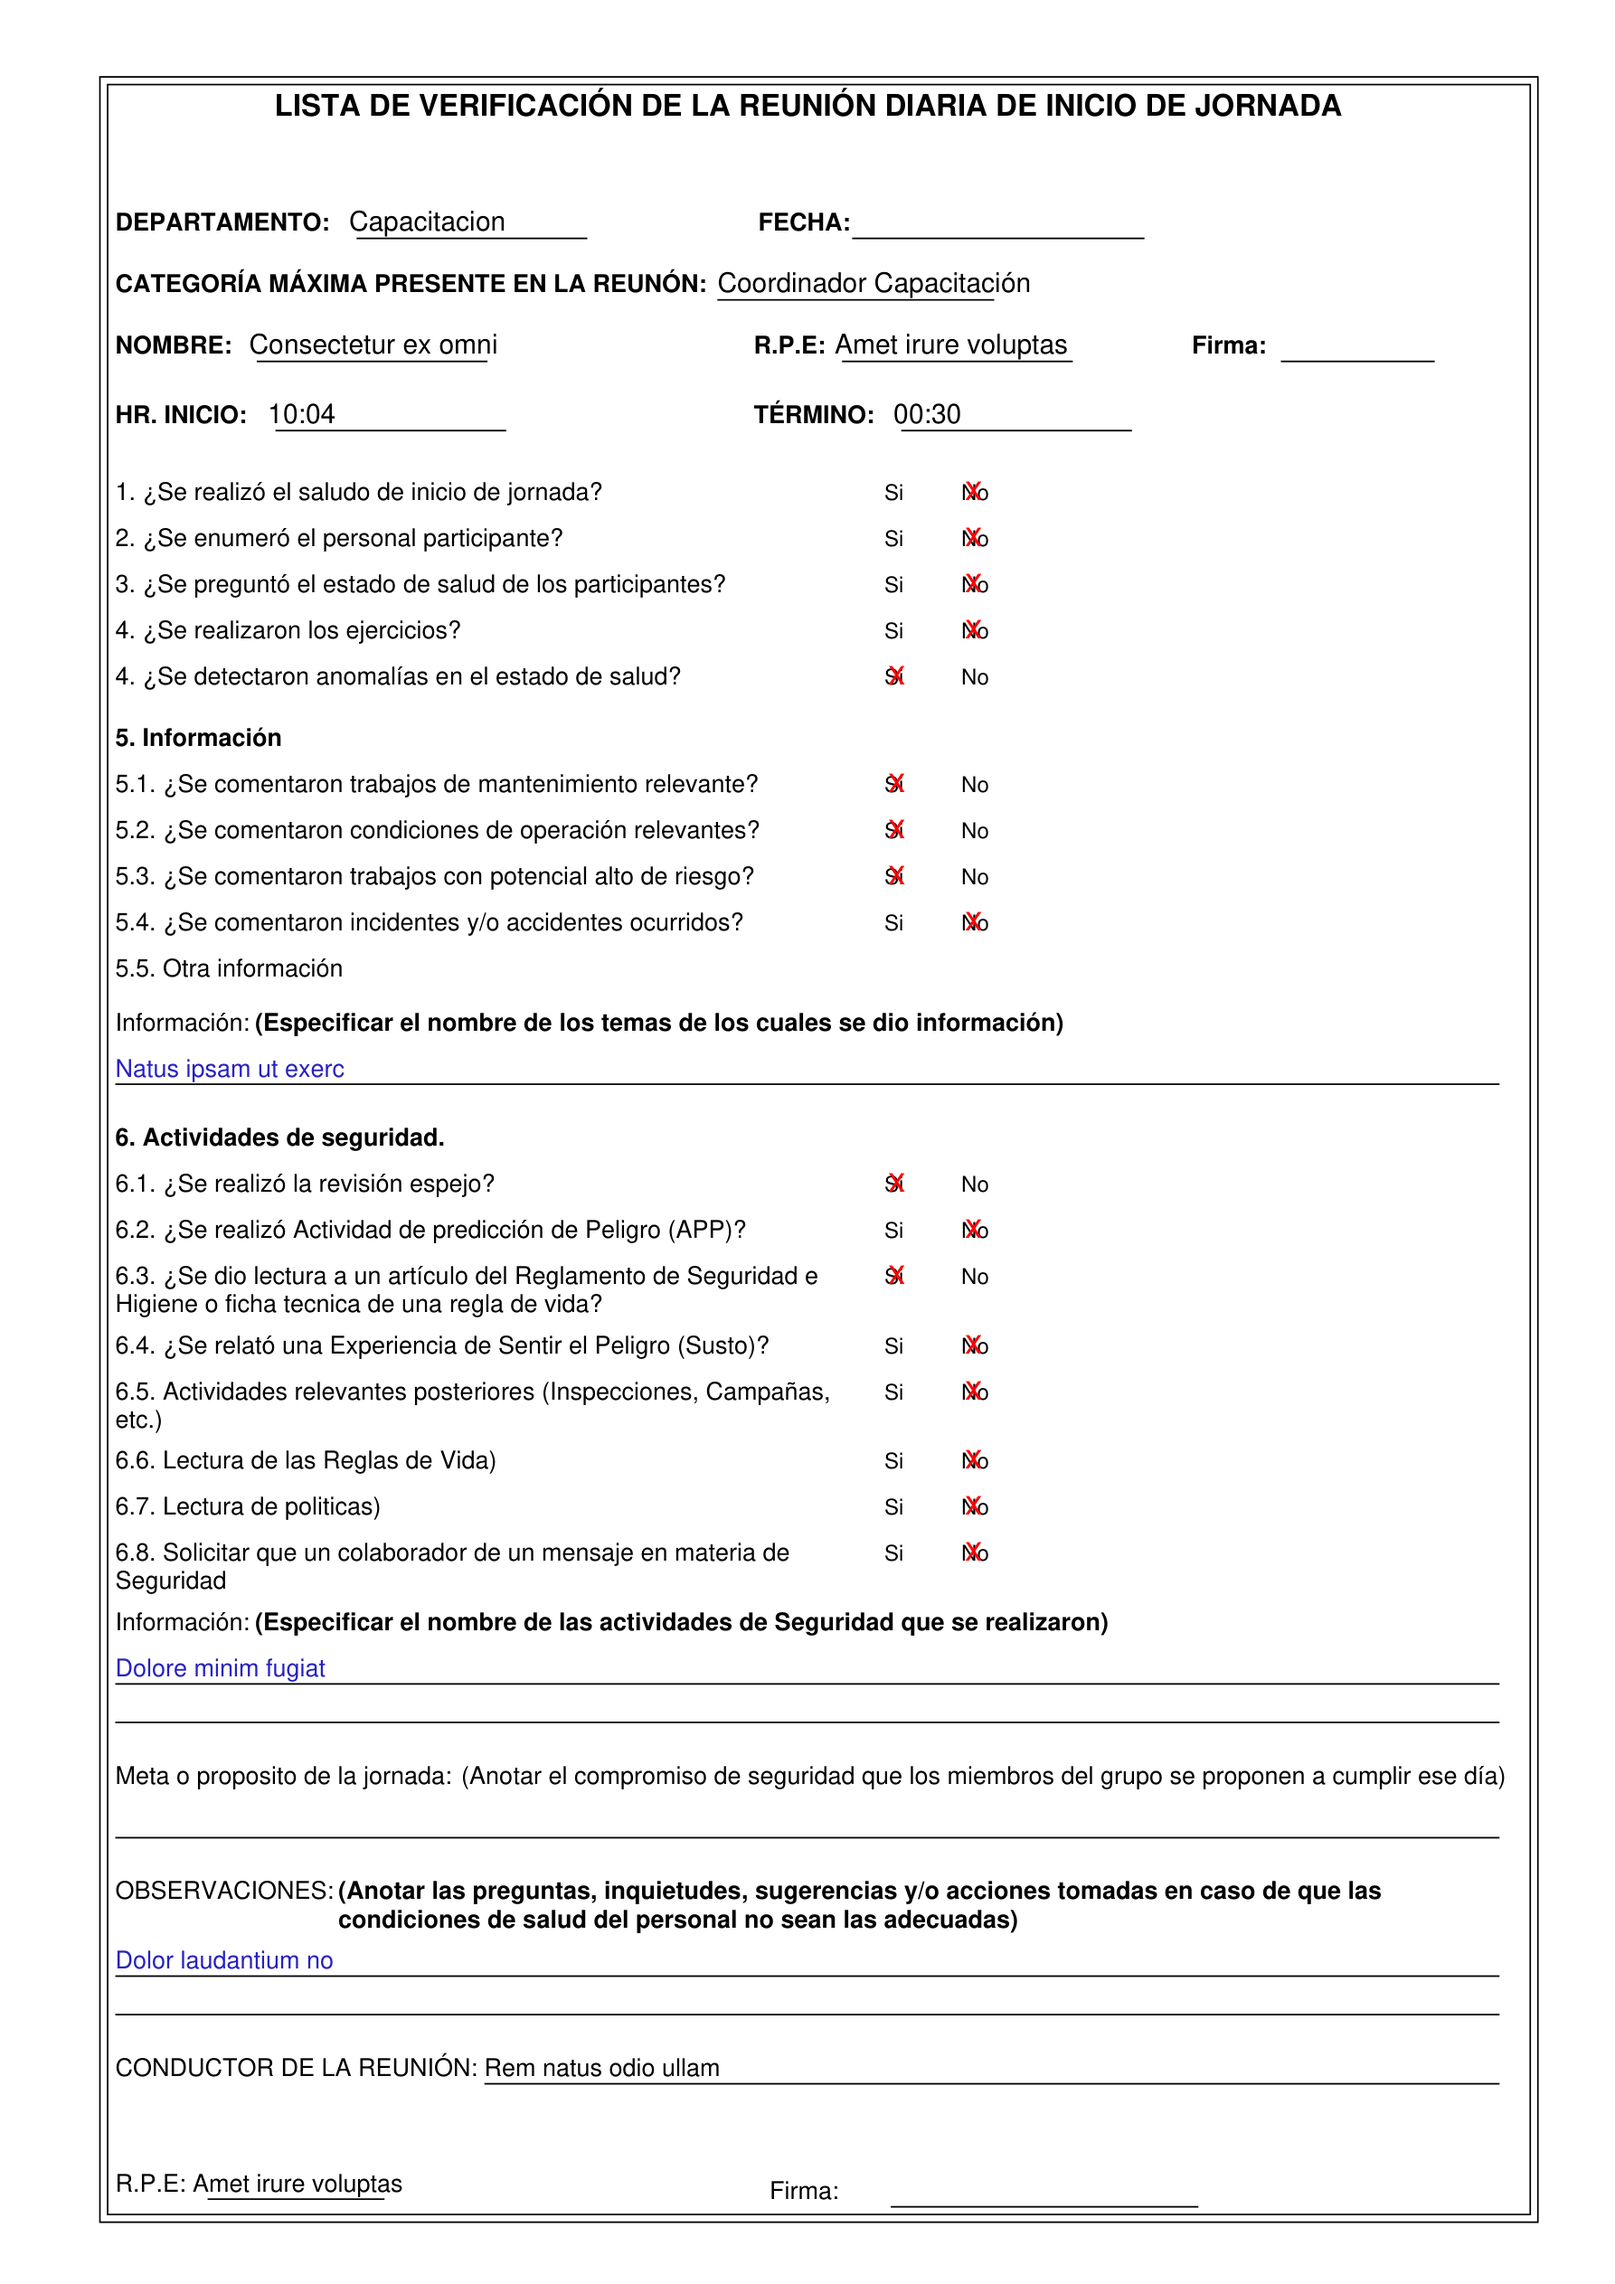
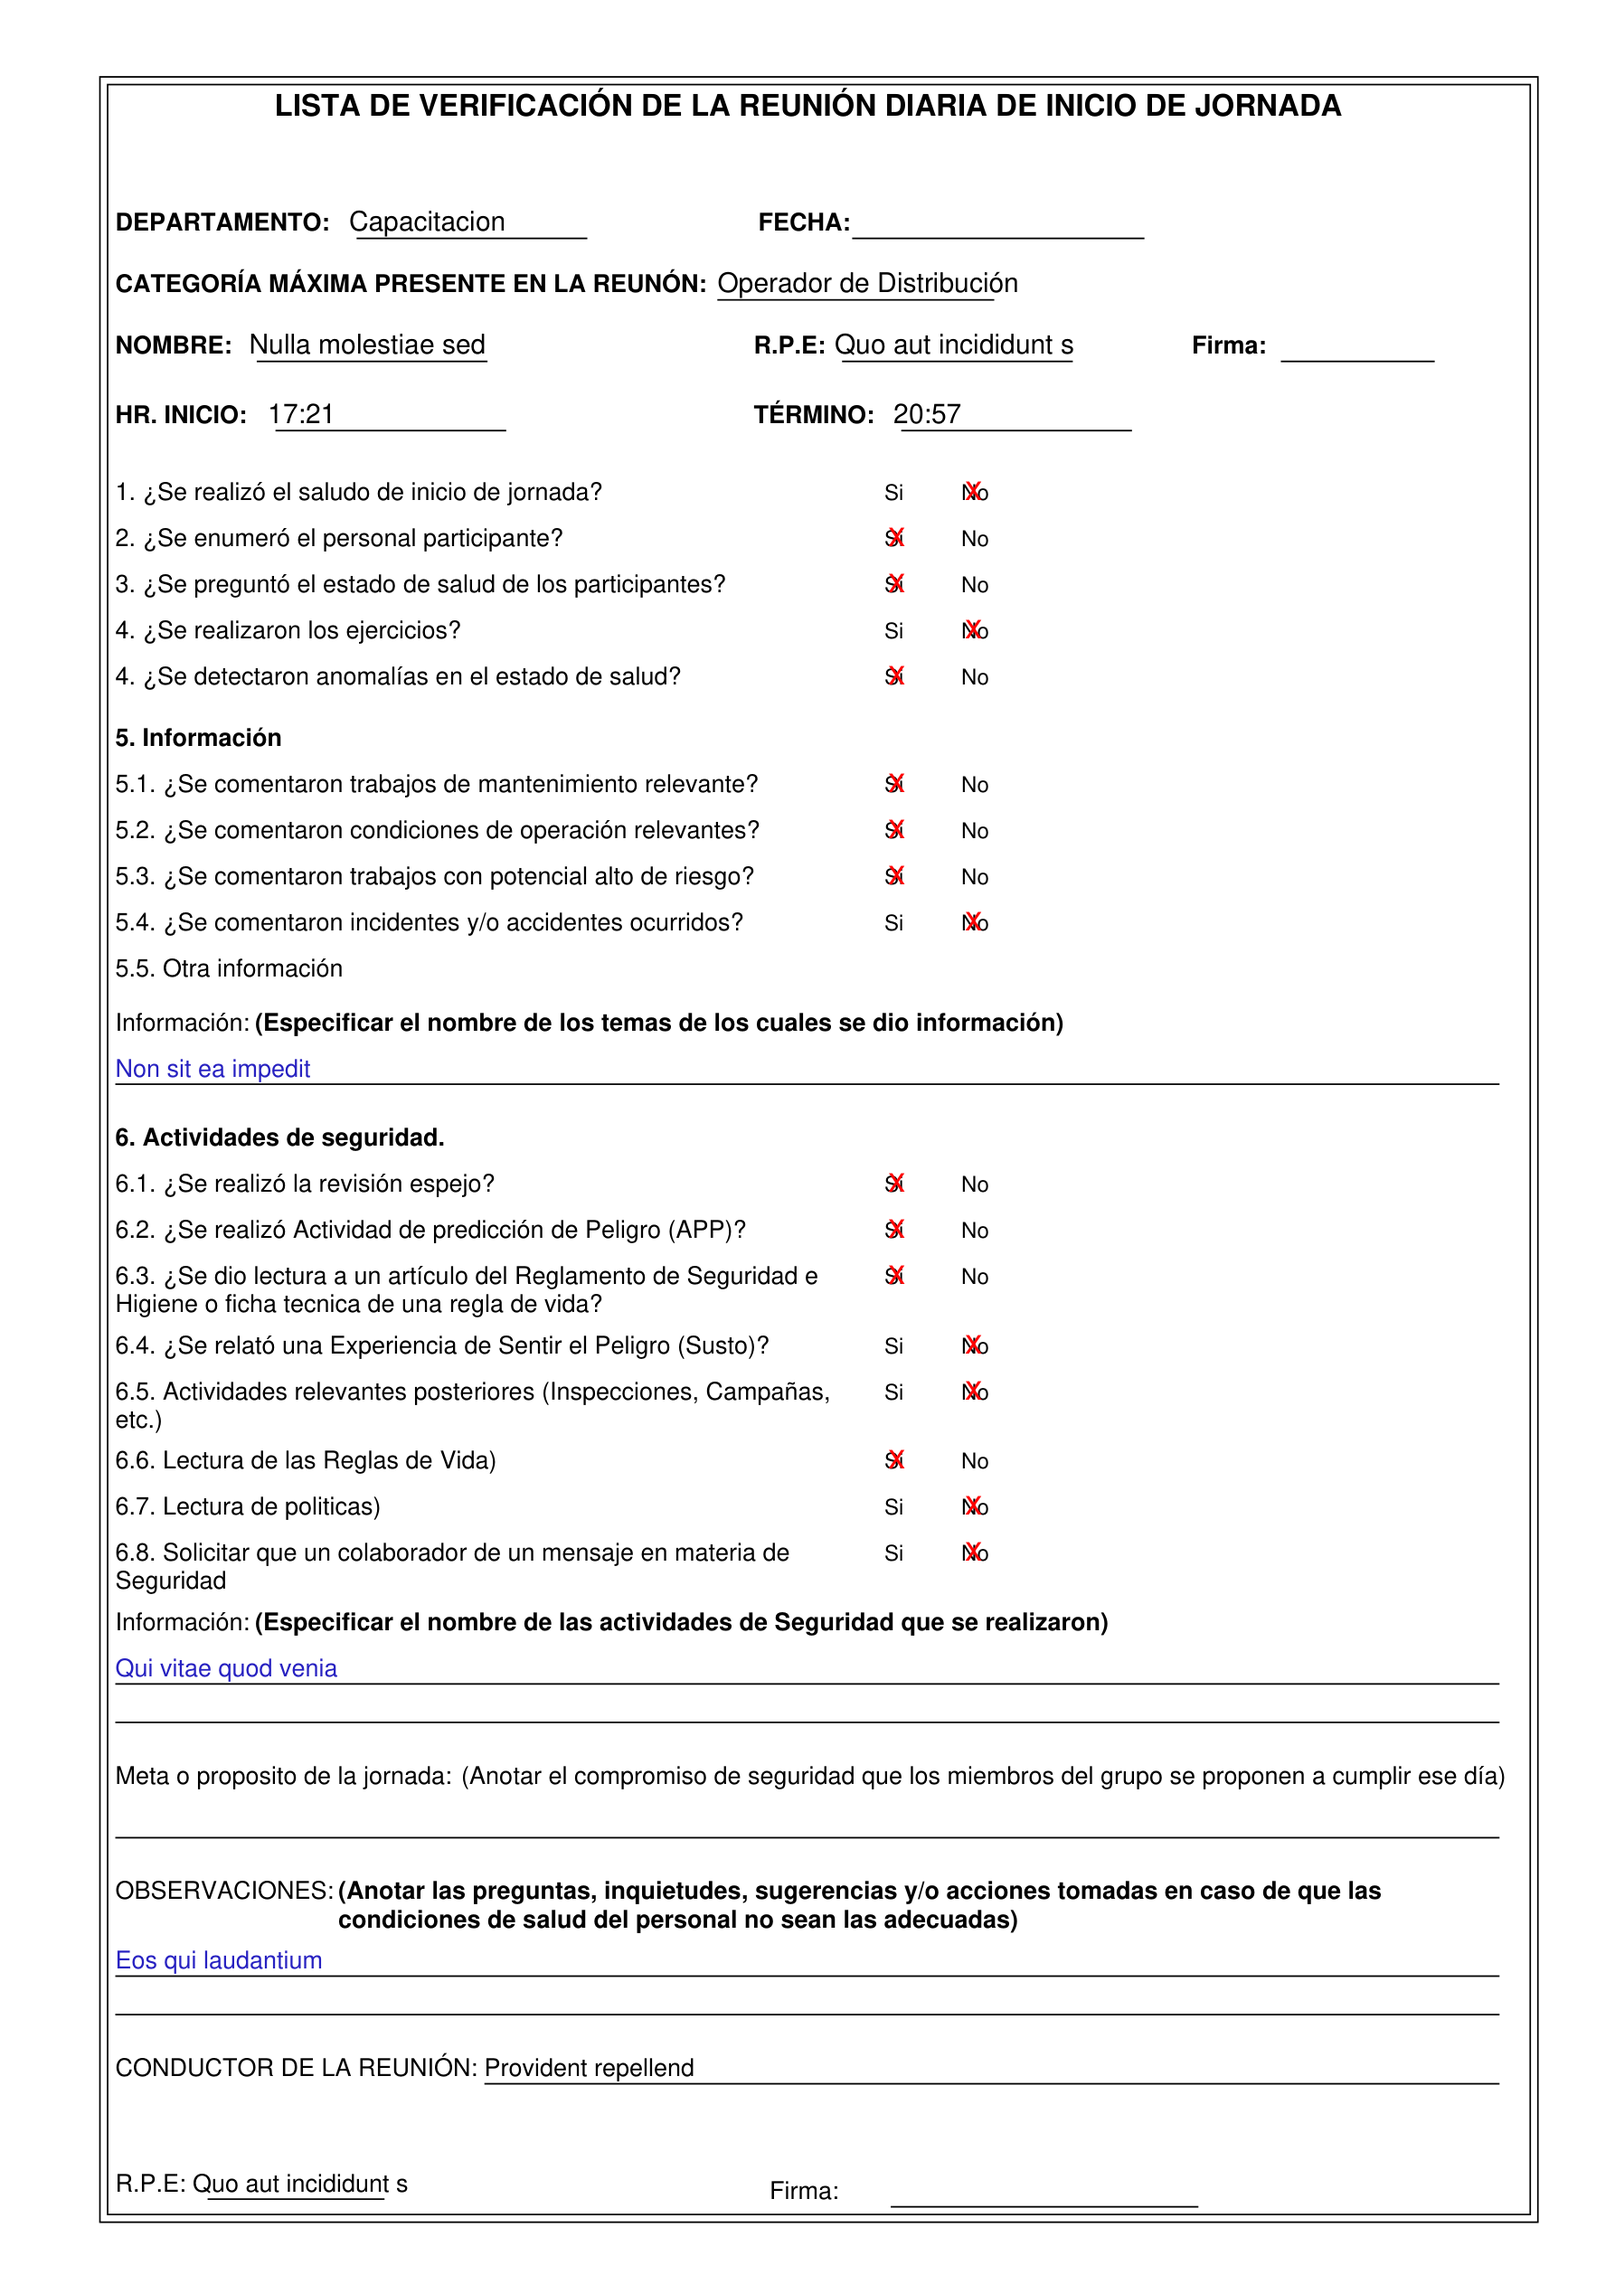
pdf a jpg medio funcional 3

diff --git a/RESOURCE/JS/insertar_rij_en_camara.js b/RESOURCE/JS/insertar_rij_en_camara.js
@@ -1,4 +1,4 @@
-// Este script inserta la imagen del formulario RIJ al principio de camara.html
+// Este script maneja la imagen RIJ mostrándola en el contenedor existente
 
 (function() {
     function obtenerIdentificadorUsuario() {
@@ -18,49 +18,36 @@
             try {
                 const response = await fetch(ruta, { method: 'HEAD' });
                 if (response.ok) {
-                    mostrarImagenRIJ(ruta, identificador);
+                    mostrarImagenEnContenedorExistente(ruta, identificador);
                     return;
                 }
             } catch (e) {}
         }
     }
 
-    function mostrarImagenRIJ(url, identificador) {
-        // Buscar o crear contenedor
-        let contenedor = document.getElementById('rij-container');
-        if (!contenedor) {
-            contenedor = document.createElement('div');
-            contenedor.id = 'rij-container';
-            contenedor.style.cssText = `
-                width: 100%;
-                margin-bottom: 20px;
-                padding: 15px;
-                border: 2px solid #007bff;
-                border-radius: 8px;
-                background: #f8f9fa;
-                text-align: center;
+    function mostrarImagenEnContenedorExistente(url, identificador) {
+        // Usar el contenedor existente en camara.html
+        const contenedorRij = document.getElementById('contenedor-rij');
+        const imagenContainer = document.getElementById('imagen-rij-container');
+        
+        if (contenedorRij && imagenContainer) {
+            // Mostrar el contenedor
+            contenedorRij.style.display = 'block';
+            
+            // Insertar solo la imagen en el contenedor existente
+            imagenContainer.innerHTML = `
+                <img src="${url}" alt="Formulario RIJ" style="
+                    max-width: 100%;
+                    max-height: 400px;
+                    border: 1px solid #ddd;
+                    border-radius: 4px;
+                    box-shadow: 0 2px 8px rgba(0,0,0,0.1);
+                " onerror="this.style.display='none'">
             `;
-
-            // Insertar al principio
-            const main = document.querySelector('.container') || document.body;
-            if (main.firstChild) {
-                main.insertBefore(contenedor, main.firstChild);
-            } else {
-                main.appendChild(contenedor);
-            }
+            
+            // Guardar URL para uso en PDF
+            localStorage.setItem('rij_imagen_disponible', url);
         }
-
-        contenedor.innerHTML = `
-            <h3 style="margin: 0 0 10px 0; color: #007bff;">📋 Formulario RIJ Completado</h3>
-            <p style="margin: 0 0 10px 0; font-size: 14px; color: #666;">ID: ${identificador}</p>
-            <img src="${url}" alt="Formulario RIJ" style="
-                max-width: 100%;
-                max-height: 300px;
-                border: 1px solid #ddd;
-                border-radius: 4px;
-                box-shadow: 0 2px 8px rgba(0,0,0,0.1);
-            " onerror="this.style.display='none'">
-        `;
     }
 
     // Inicializar

diff --git a/RESOURCE/JS/pdf_fotos.js b/RESOURCE/JS/pdf_fotos.js
@@ -435,7 +435,9 @@ async function agregarImagenRIJalPDF(pdf, urlImagen) {
     return new Promise((resolve, reject) => {
         // Buscar imagen RIJ por identificador
         const identificador = localStorage.getItem('usuario_identificador_rij');
-        if (!identificador) {
+        const imagenDisponible = localStorage.getItem('rij_imagen_disponible');
+        
+        if (!identificador && !imagenDisponible) {
             resolve(); // No hay identificador, continuar sin imagen
             return;
         }
@@ -463,11 +465,16 @@ async function agregarImagenRIJalPDF(pdf, urlImagen) {
         
         // Intentar diferentes rutas de imagen
         const rutasImagen = [
+            imagenDisponible,
             `/RESOURCE/IMG/img RIJ/${identificador}.png`,
             urlImagen
-        ];
+        ].filter(Boolean); // Filtrar valores null/undefined
         
-        img.src = rutasImagen[0];
+        if (rutasImagen.length > 0) {
+            img.src = rutasImagen[0];
+        } else {
+            resolve(); // No hay rutas válidas
+        }
     });
 }
 

diff --git a/TEMPLATES/camara.html b/TEMPLATES/camara.html
@@ -179,13 +179,12 @@
 
     <!-- pdf_fotos.js se carga dinámicamente después de OpenCV.js -->
     <script src="/RESOURCE/JS/insertar_rij_en_camara.js"></script>
-    <script src="/RESOURCE/JS/debug_rij_camara.js"></script>
     <script src="/RESOURCE/JS/modal_tomar_foto.js"></script>
     <script src="/RESOURCE/JS/circular_progress_pdf.js"></script>
     <script src="/RESOURCE/JS/fotos_upload.js"></script>
     <script src="/RESOURCE/JS/autoguardado_camara.js"></script>
     <script src="/RESOURCE/JS/rij_pdf_a_imagen.js"></script>
-    <script src="/RESOURCE/JS/mostrar_rij_camara.js"></script>
+
     <script src="/RESOURCE/JS/index.js"></script>
     <script src="/RESOURCE/JS/editar_foto.js"></script>
     <script src="/RESOURCE/JS/recorte_foto.js"></script>
